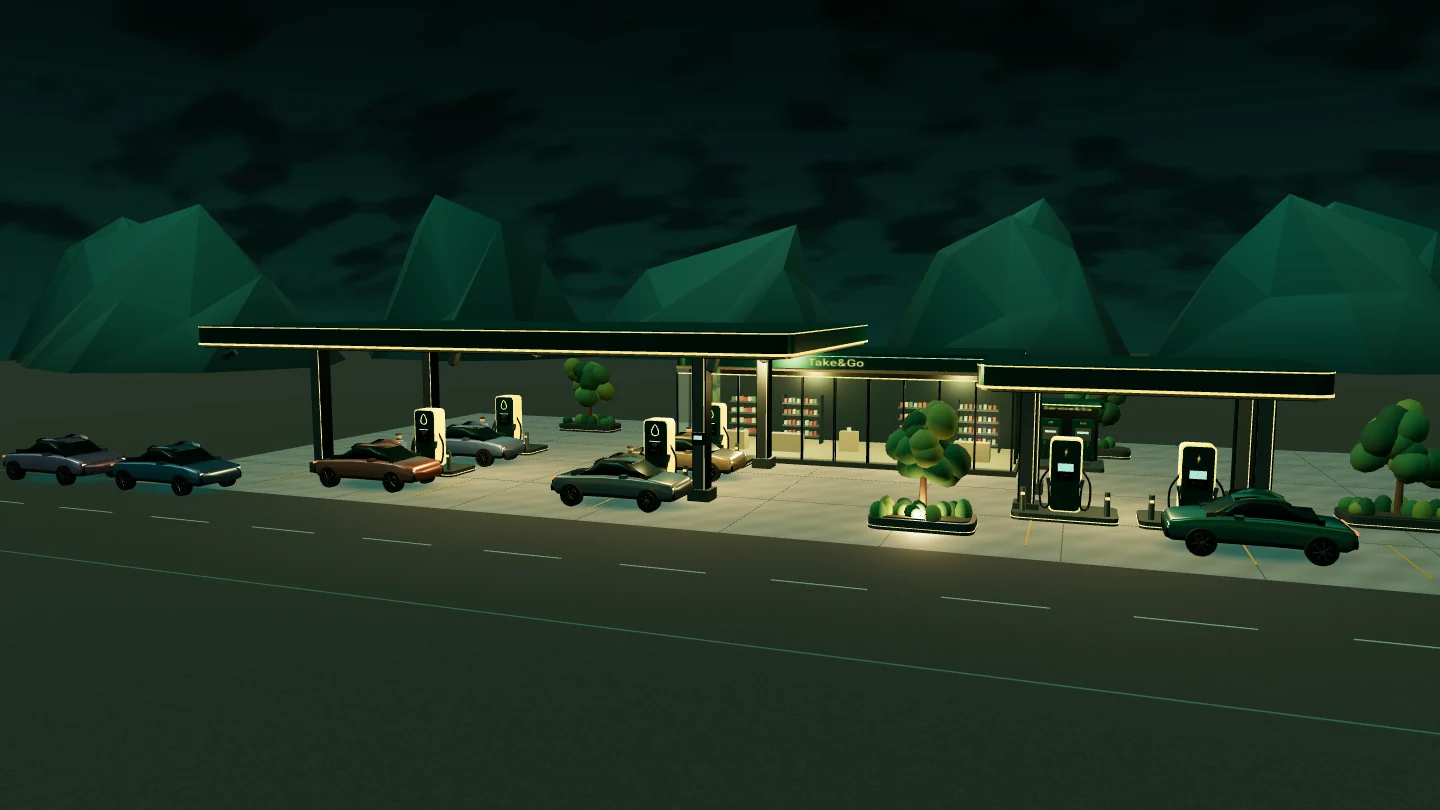
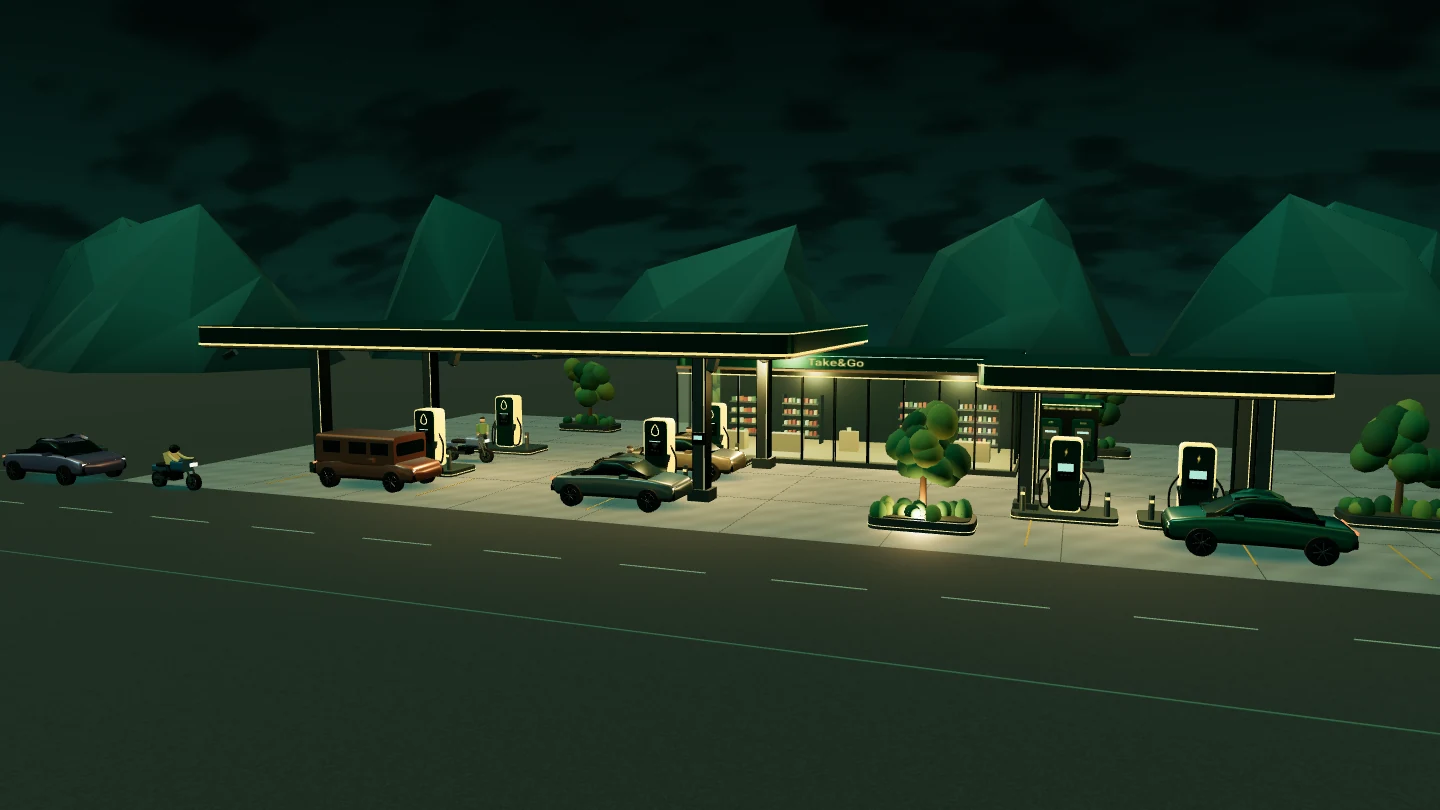
Add motorcycles and a minivan to the station simulation

Changed region(s): [[0.2188, 0.5247, 0.375, 0.5864], [0.0625, 0.5556, 0.1875, 0.6173]]

diff --git a/assets/scene/vehicles.js b/assets/scene/vehicles.js
@@ -1,5 +1,5 @@
 import * as T from './vendor/three.module.min.js';
-import { box, group, materials as m, mesh, shell, standard } from './model.js';
+import { box, group, materials as m, mesh, shell, standard, tube } from './model.js';
 
 function loft(parent, material, rings) {
   const vertices = [], indices = [];
@@ -40,10 +40,12 @@ function contactShadow(car) {
     ctx.fillRect(0, 0, 64, 64);
     shadowMaterial = new T.MeshBasicMaterial({ map: new T.CanvasTexture(canvas), transparent: true, depthWrite: false });
   }
-  mesh(car, shadowGeometry, shadowMaterial, 0, .029, 0).rotation.x = -Math.PI / 2;
+  const shadow = mesh(car, shadowGeometry, shadowMaterial, 0, .029, 0);
+  shadow.rotation.x = -Math.PI / 2;
+  return shadow;
 }
 
-export function vehicle(scene, x, z, color, ev = false) {
+export function vehicle(scene, x, z, color, ev = false, van = false) {
   const car = group(scene, x, 0, z);
   contactShadow(car);
   car.rotation.y = ev ? -.62 : -.9;
@@ -56,10 +58,19 @@ export function vehicle(scene, x, z, color, ev = false) {
     [2.11, .98, .39, 1.03], [2.34, .84, .49, .91],
   ]);
   body.userData.zone = ev ? 4 : 1;
-  loft(car, glass, [[-1.36, .87, 1.05, 1.07], [-.61, .76, 1.12, 1.55],
-    [-.2, .75, 1.12, 1.63], [.45, .75, 1.12, 1.62], [1.04, .83, 1.08, 1.29],
-    [1.55, .87, 1.06, 1.08]]);
-  loft(car, paint, [[-.63, .59, 1.48, 1.56], [-.17, .62, 1.56, 1.64], [.43, .61, 1.55, 1.63], [.77, .56, 1.39, 1.47]]);
+  if (van) {
+    shell(car, paint, 0, 1.48, .28, 1.92, 1.18, 3.63, .19);
+    shell(car, glass, 0, 1.58, -1.55, 1.63, .49, .03, .12);
+    shell(car, glass, 0, 1.57, 2.11, 1.61, .54, .03, .1);
+    for (const side of [-1, 1]) {
+      for (const z of [-.88, .12, 1.34]) box(car, glass, side * .968, 1.61, z, .032, .45, .79);
+    }
+  } else {
+    loft(car, glass, [[-1.36, .87, 1.05, 1.07], [-.61, .76, 1.12, 1.55],
+      [-.2, .75, 1.12, 1.63], [.45, .75, 1.12, 1.62], [1.04, .83, 1.08, 1.29],
+      [1.55, .87, 1.06, 1.08]]);
+    loft(car, paint, [[-.63, .59, 1.48, 1.56], [-.17, .62, 1.56, 1.64], [.43, .61, 1.55, 1.63], [.77, .56, 1.39, 1.47]]);
+  }
   shell(car, m.frame, 0, .61, 2.27, 1.78, .26, .16, .11);
   shell(car, m.frame, 0, .59, -2.28, 1.78, .27, .16, .1);
   box(car, m.red, 0, .94, 2.29, 1.6, .038, .025);
@@ -85,5 +96,52 @@ export function vehicle(scene, x, z, color, ev = false) {
     }
   }
   car.userData.wheels = wheels;
+  car.userData.vehicleKind = van ? 'minivan' : 'car';
   return car;
+}
+
+export function motorcycle(scene, color, jacket) {
+  const bike = group(scene, 0, 0, 0);
+  contactShadow(bike).scale.set(.39, .51, 1);
+  const paint = standard(color, .47, .34);
+  const wheels = [];
+  for (const z of [-.91, .91]) {
+    const wheel = group(bike, 0, .32, z);
+    wheels.push(wheel);
+    mesh(wheel, new T.CylinderGeometry(.32, .32, .17, 18), m.rubber).rotation.z = Math.PI / 2;
+    mesh(wheel, new T.CylinderGeometry(.22, .22, .19, 14), m.steel).rotation.z = Math.PI / 2;
+    for (let i = 0; i < 3; i++) {
+      const spoke = box(wheel, m.frame, 0, 0, 0, .205, .32, .036);
+      spoke.rotation.x = i * Math.PI / 3;
+    }
+  }
+  box(bike, m.frame, 0, .53, .16, .4, .35, .58);
+  shell(bike, paint, 0, .92, -.32, .49, .43, .64, .14);
+  shell(bike, m.rubber, 0, .91, .39, .45, .14, .75, .06);
+  shell(bike, paint, 0, .77, .88, .41, .25, .32, .095);
+  box(bike, m.red, 0, .84, 1.054, .24, .085, .045);
+  box(bike, m.warm, 0, .99, -.95, .29, .14, .075);
+  box(bike, m.steel, 0, 1.14, -.62, .72, .035, .036);
+
+  for (const side of [-1, 1]) {
+    tube(bike, m.steel, [[side * .115, .32, -.91], [side * .126, .7, -.77], [side * .145, 1.08, -.57]], .037);
+    tube(bike, m.frame, [[side * .11, .35, .9], [side * .21, .49, .27], [side * .115, .73, -.44]], .041);
+    box(bike, m.steel, side * .25, .43, .43, .09, .09, .74);
+  }
+
+  const rider = group(bike, 0, 0, 0);
+  const cloth = standard(jacket);
+  const torso = box(rider, cloth, 0, 1.19, .17, .43, .48, .3);
+  torso.rotation.x = .34;
+  mesh(rider, new T.IcosahedronGeometry(.17, 1), m.frame, 0, 1.54, .035);
+  box(rider, m.tinted, 0, 1.54, -.097, .245, .1, .061);
+  for (const side of [-1, 1]) {
+    tube(rider, cloth, [[side * .18, 1.34, .1], [side * .23, 1.17, -.24], [side * .31, 1.14, -.61]], .059);
+    tube(rider, m.frame, [[side * .13, .92, .32], [side * .28, .68, .03], [side * .27, .45, .24]], .071);
+  }
+  bike.userData.wheels = wheels;
+  bike.userData.wheelRadius = .32;
+  bike.userData.rider = rider;
+  bike.userData.vehicleKind = 'motorcycle';
+  return bike;
 }

diff --git a/assets/scene/activity.js b/assets/scene/activity.js
@@ -1,6 +1,6 @@
 import * as T from './vendor/three.module.min.js';
 import { box, group, materials as m, mesh, standard, tube } from './model.js';
-import { vehicle } from './vehicles.js';
+import { motorcycle, vehicle } from './vehicles.js';
 import { refuellingCounter } from './refuelling-counter.js';
 import { chargingBay, fuelBays, fuelStopOffset, fuelX, refuellingDemo, rearFuelBays } from './layout.js';
 
@@ -14,7 +14,7 @@ function drive(car, route, progress, reverse = false) {
   route.getTangentAt(progress, direction);
   const sign = reverse ? 1 : -1;
   car.rotation.y = Math.atan2(sign * direction.x, sign * direction.z);
-  const spin = route.getLength() * progress / .4 * sign;
+  const spin = route.getLength() * progress / (car.userData.wheelRadius ?? .4) * sign;
   for (const wheel of car.userData.wheels) wheel.rotation.x = spin;
 }
 
@@ -67,9 +67,9 @@ const frontArrival = 11;
 const queueRelease = frontArrival + refuellingDemo.gasGoSeconds + 4;
 
 function refuellingVisit(actors, {
-  bay, duration, paint, jacket, gasGo = false, arrive = frontArrival, queued = false,
+  bay, duration, paint, jacket, gasGo = false, arrive = frontArrival, queued = false, kind = "car",
 }) {
-  const car = vehicle(actors, 0, 0, paint);
+  const car = kind === "motorcycle" ? motorcycle(actors, paint, jacket) : vehicle(actors, 0, 0, paint, false, kind === "minivan");
   car.name = queued ? `Queue: ${gasGo ? "Gas&Go" : "conventional"}` : `Pump: ${bay.z < 0 ? "rear" : "front"} ${bay.x}`;
   const driver = person(actors, jacket);
   const counter = refuellingCounter(car, gasGo);
@@ -96,10 +96,13 @@ function refuellingVisit(actors, {
   const exit = path(rear
     ? [[pumpX, stopZ], [pumpX + 2.65, stopZ - 1.1], [pumpX + 6.9, -3.92], [10, -4.45], [23, -4.45], [43, -4.45]]
     : [[pumpX, stopZ], [pumpX + 2.35, stopZ], [pumpX + 5.7, 7.5], [pumpX + 10.7, 10.4], [pumpX + 18, 10.4], [43, 10.4]]);
-  const toPump = path([[pumpX + .38, stopZ - 1.19], [pumpX - .36, pumpZ + 1.91], [pumpX - .69, pumpZ + 1.17]]);
+  const dismountX = kind === "motorcycle" ? pumpX - .18 : pumpX + .38;
+  const dismountZ = stopZ - (kind === "motorcycle" ? .54 : 1.19);
+  const tank = kind === "motorcycle" ? [pumpX + .28, 1.09, stopZ - .23] : [pumpX - 1.52, .93, stopZ - .97];
+  const toPump = path([[dismountX, dismountZ], [pumpX - .36, pumpZ + 1.91], [pumpX - .69, pumpZ + 1.17]]);
   const hose = tube(actors, m.rubber, [[pumpX - .46, 1.65, pumpZ + .08],
     [pumpX - .66, .38, pumpZ + .54], [pumpX - .94, .31, pumpZ + 1.27],
-    [pumpX - 1.38, .55, stopZ - 1.16], [pumpX - 1.52, .93, stopZ - .97]], .037);
+    [tank[0] - .13, .55, tank[2] - .19], tank], .037);
 
   return phase => {
     if (phase < arrive) {
@@ -114,6 +117,7 @@ function refuellingVisit(actors, {
     counter(phase >= arrive && phase < leavesAt, (phase - arrive) / duration);
     driver.actor.visible = phase >= arrive + 1 && phase < entersCarAt;
     hose.visible = phase >= connectAt && phase < disconnectAt;
+    if (car.userData.rider) car.userData.rider.visible = !driver.actor.visible;
     if (driver.actor.visible) {
       const returning = phase >= disconnectAt;
       const progress = returning
@@ -130,10 +134,10 @@ export function stationActivity(scene, market) {
   actors.userData.ignorePick = true;
   const visits = [
     { bay: fuelBays.right, duration: refuellingDemo.gasGoSeconds, paint: 0x66736b, jacket: 0xd3a33b, gasGo: true },
-    { bay: fuelBays.left, duration: refuellingDemo.conventionalSeconds, paint: 0x9b644e, jacket: 0x808ba1 },
+    { bay: fuelBays.left, duration: refuellingDemo.conventionalSeconds, paint: 0x9b644e, jacket: 0x808ba1, kind: "minivan" },
     { bay: rearFuelBays.right, duration: 29, paint: 0x9f8b62, jacket: 0x8d5141 },
-    { bay: rearFuelBays.left, duration: 36, paint: 0x687d95, jacket: 0x6e8b58 },
-    { bay: fuelBays.right, duration: refuellingDemo.gasGoSeconds, paint: 0x456d81, jacket: 0xcda662, gasGo: true, queued: true, arrive: 33.5 },
+    { bay: rearFuelBays.left, duration: 36, paint: 0x687d95, jacket: 0x6e8b58, kind: "motorcycle" },
+    { bay: fuelBays.right, duration: refuellingDemo.gasGoSeconds, paint: 0x456d81, jacket: 0xcda662, gasGo: true, queued: true, arrive: 33.5, kind: "motorcycle" },
     { bay: fuelBays.left, duration: refuellingDemo.conventionalSeconds, paint: 0x80758e, jacket: 0x5b8392, queued: true, arrive: 46 },
   ].map(config => refuellingVisit(actors, config));
   const visitor = vehicle(actors, 0, 0, 0x7799a3);

diff --git a/assets/css/plans.css b/assets/css/plans.css
@@ -30,8 +30,7 @@ body {
   display: none;
 }
 
-.plans-profiles,
-.plans-note {
+.plans-profiles {
   width: min(100%, 69rem);
   margin-inline: auto;
 }
@@ -299,11 +298,6 @@ body {
 
 .plans-installation output {
   font-weight: 750;
-}
-
-.plans-note {
-  margin-top: 1.25rem;
-  font-size: .9rem;
 }
 
 @media (max-width: 43rem) {

diff --git a/planes.html b/planes.html
@@ -113,7 +113,6 @@
             </section>
           </div>
         </form>
-        <p class="plans-note">Tarifas propuestas para el proyecto universitario Gas&amp;Go.</p>
         <noscript><p>Activa JavaScript para cambiar de perfil y calcular la cuota.</p></noscript>
       </div>
     </main>
